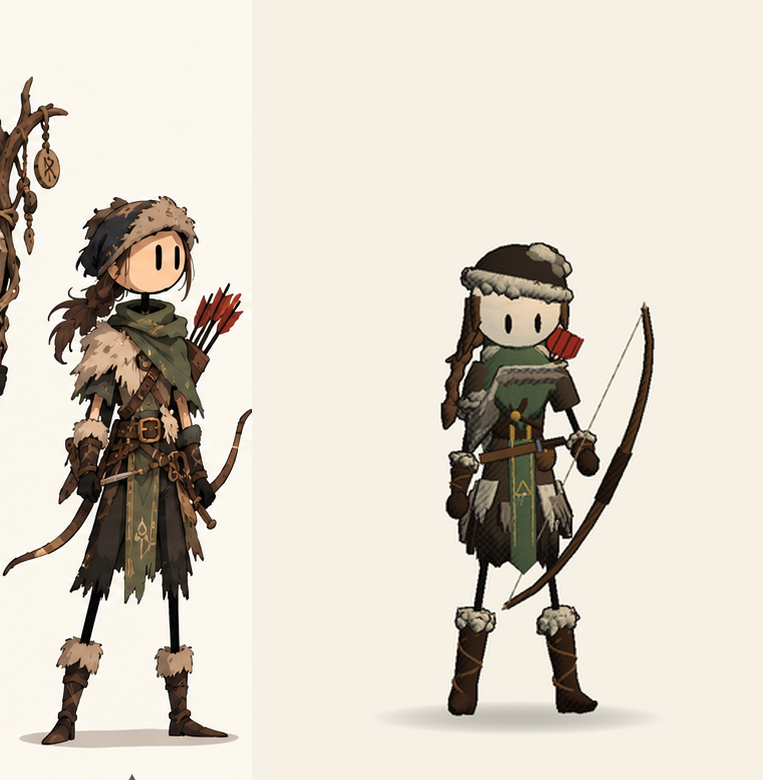
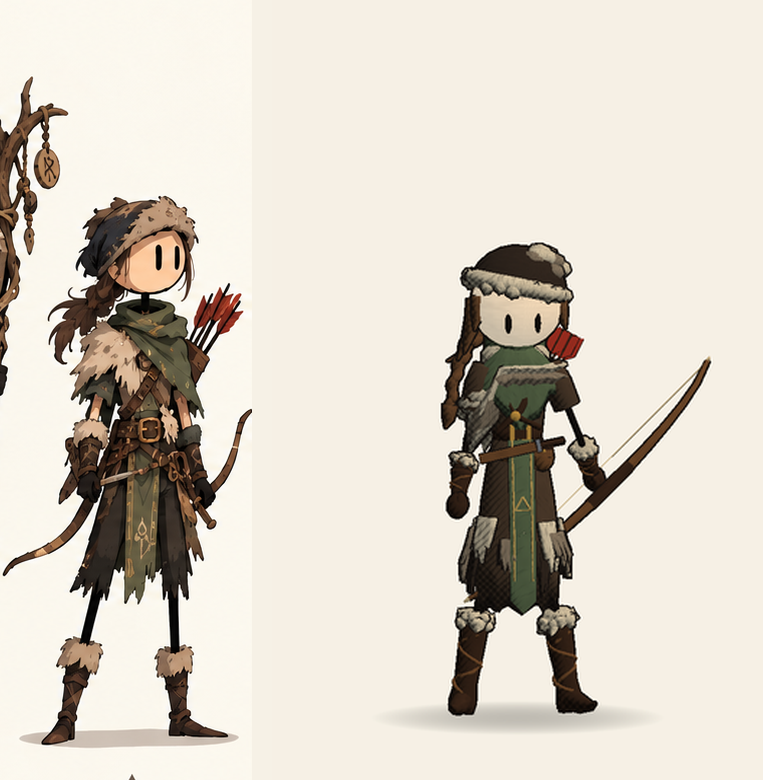
Scout pass 5: knee-length tunic and tabard, bow slung behind
The Scout's skirt, fur tatters and green tabard come down to the knee as in
the concept art; in the lineup the bow is held low at the hip, slanting
behind the body instead of standing in front.

Claude-Session: https://claude.ai/code/session_01SCdejJ1UF8RUxAkkFhZXGU

Changed region(s): [[0.6029, 0.4, 0.9345, 0.8]]

diff --git a/tools/preview/HeroPreview.cs b/tools/preview/HeroPreview.cs
@@ -138,10 +138,10 @@ public static class HeroPreview
         var ready = new Pose();
         Vector3 scl = new Vector3(-scFit.shoulderX, scFit.shoulderY, 0f);
         Vector3 sclElbow = scl + new Vector3(-0.08f, -0.2f, 0.0f).normalized * scFit.upperArm;
-        Vector3 sclFist = new Vector3(-scFit.shoulderX - 0.08f, scFit.waist - 0.04f, 0.08f);
+        Vector3 sclFist = new Vector3(-scFit.shoulderX - 0.1f, scFit.waist - 0.06f, -0.04f);
         ready.worldRot[Joints.LeftArm] = Quaternion.FromToRotation(Vector3.down, sclElbow - scl);
         ready.worldRot[Joints.LeftForearm] = Quaternion.FromToRotation(Vector3.down, sclFist - sclElbow);
-        ready.worldRot[Joints.OffHand] = Quaternion.LookRotation(new Vector3(-0.35f, 0.88f, 0.3f), new Vector3(-0.8f, 0f, 0.3f));
+        ready.worldRot[Joints.OffHand] = Quaternion.LookRotation(new Vector3(-0.72f, 0.62f, -0.3f), new Vector3(-0.3f, -0.1f, 1f));
         ready.rot[Joints.RightArm] = Quaternion.Euler(4f, 0f, 12f);
         ready.rot[Joints.RightForearm] = Quaternion.Euler(-25f, 0f, 0f);
         ready.rot[Joints.LeftLeg] = Quaternion.Euler(0f, -16f, -9f);

diff --git a/OdinsCoin/Assets/Scripts/Characters/Outfits.cs b/OdinsCoin/Assets/Scripts/Characters/Outfits.cs
@@ -166,12 +166,12 @@ namespace OdinsCoin
                 {
                     Garments.FurBoots(d, 0.04f);
                     Garments.Gloves(d);
-                    Garments.LongSkirt(d, 0.3f, 1.3f);
-                    Garments.FurSkirt(d, 0.55f, 0.4f);
+                    Garments.LongSkirt(d, 0.14f, 1.3f);
+                    Garments.FurSkirt(d, 0.42f, 0.26f);
                     Garments.Tunic(d, false);
                     Garments.Bracers(d);
                     Garments.RaiderBelt(d, 1);
-                    Garments.Tabard(d, 0.42f, 0.09f);
+                    Garments.Tabard(d, 0.56f, 0.09f);
                     Garments.BeltKnife(d);
                     Garments.Quiver(d);
                     Garments.ShoulderPelt(d, 1.0f, 1f);
